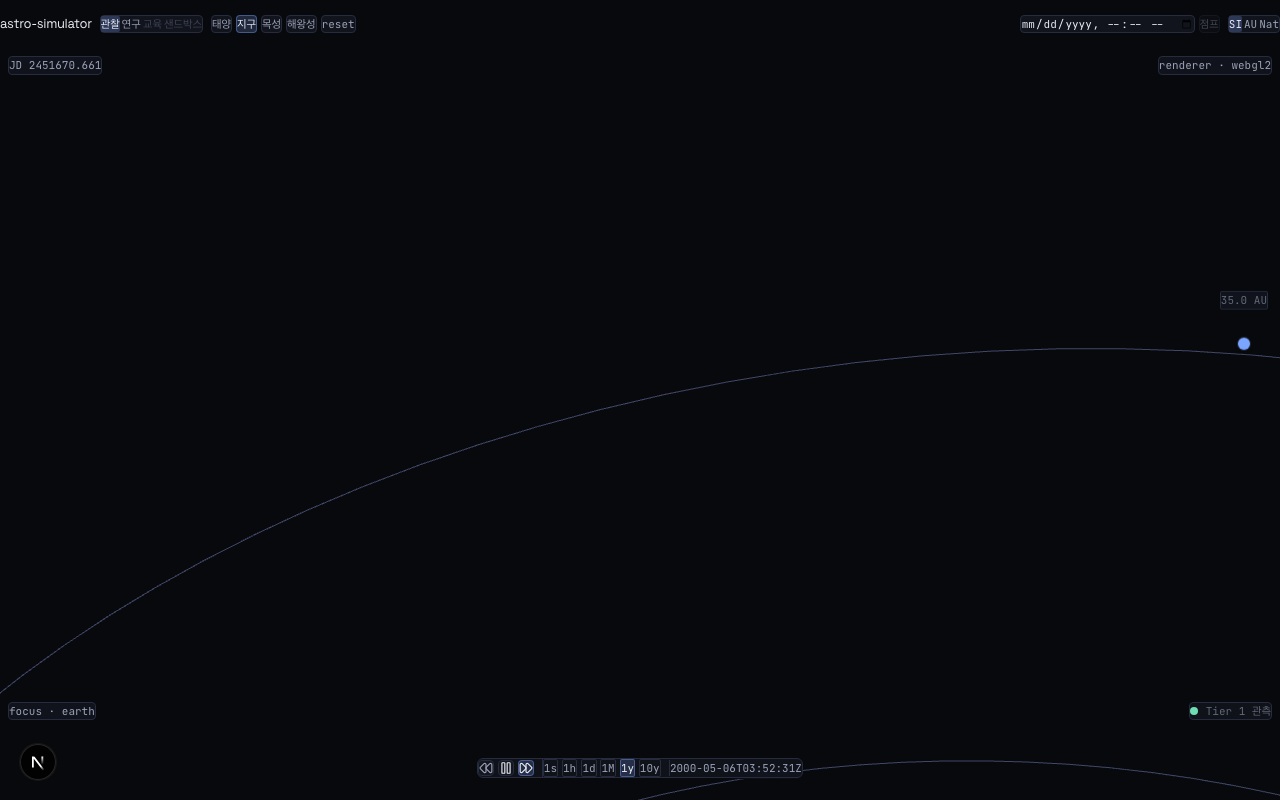
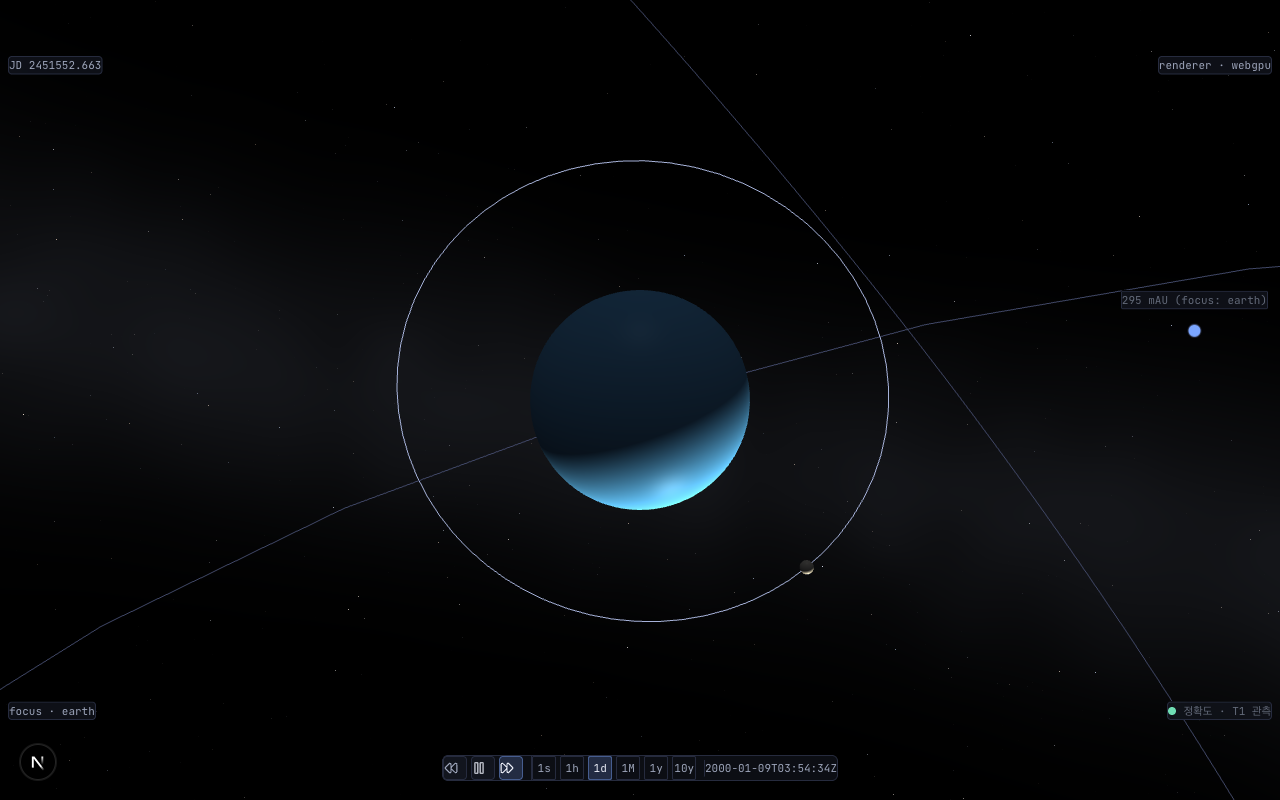
chore(release): v0.35.1 prep — CHANGELOG + version bump + README 스크린샷 갱신 (#745) (#747)
- CHANGELOG [0.35.1]: #745 별 배경 가시성 회귀 fix (PATCH) + README 스크린샷 갱신
- version 0.35.0 → 0.35.1 (루트 / core / web)
- README: 현재 상태 v0.35.1 + 별 배경·온보딩 항목 + 스크린샷 4장 별 배경 반영 캡처본 교체

diff --git a/CHANGELOG.md b/CHANGELOG.md
@@ -5,6 +5,16 @@ Semantic Versioning을 따른다.
 
 ## [Unreleased]
 
+## [0.35.1] — 2026-06-26
+
+### Behavior Changes (#745 — 별 배경 가시성 회귀 fix)
+
+- **[#745] tier-c 별 배경 과잉 비활성 회귀 fix (PATCH)** ([#745](https://github.com/coseo12/astro-simulator/issues/745)) — #738 별 배경의 fps graceful degradation 기준이 `gpu tier-c`(= "WebGPU 미지원" 데스크톱 전부, 소프트웨어 swiftshader + WebGL2 **하드웨어** 가속 무구분)였던 탓에, WebGPU 미지원이지만 WebGL2 하드웨어 가속인 **PC 크롬에서 별 배경이 기본 진입 시 사라지던 회귀**를 정정. 비활성 기준을 `tier-c` → **소프트웨어 렌더(swiftshader/llvmpipe/swrast 등) 감지**(신규 `detectSoftwareRenderer`, WebGL `UNMASKED_RENDERER_WEBGL` 1차 + WebGPU adapterInfo 보조)로 변경. **하드웨어 GPU(WebGPU tier-a/b + WebGL2 하드웨어 fallback) 전부 별 표시**, CI swiftshader(소프트웨어)는 비활성 유지로 fps 무회귀. 정규식 false positive 0(Apple/NVIDIA/Intel/Mali 등)·false negative 0(swiftshader 등) 검증. `?stars=off` / `?gpu=` override 보존. core 변경 0. ADR `20260624-738-procedural-starfield.md` §Amendment 2.
+
+### Notes
+
+- **README 스크린샷 갱신** — 전체 태양계 / 지구 / 해왕성 / 모바일 4장을 별 배경(#738)이 반영된 하드웨어 GPU 캡처본으로 교체 + "현재 상태" v0.35.1 현행화 (행동 변화 없는 문서).
+
 ## [0.35.0] — 2026-06-25
 
 ### Behavior Changes (#737 — 첫 진입 온보딩 / #738 — 별 배경)

diff --git a/README.md b/README.md
@@ -12,7 +12,7 @@
 
 ## 현재 상태
 
-**v0.33.0** — 로드맵 v3 (Incremental Body-by-Body Build) 완주 + 위성 탐색 확장 (2026-06-20)
+**v0.35.1** — 로드맵 v3 (Incremental Body-by-Body Build) 완주 + 경험 레이어 (별 배경·온보딩) (2026-06-26)
 
 - **태양계 32 body** — 태양 + 행성 8 + 위성 15 + 왜소행성 5 + 혜성 3, 실시간 적분 + 관측 데이터 기반 궤도/크기 시각화
   - 위성 15: 달 / 포보스·데이모스 / 갈릴레이 4 (이오·유로파·가니메데·칼리스토) / 타이탄·레아·이아페투스·엔셀라두스 / 티타니아·오베론 / 트리톤·프로테우스
@@ -22,6 +22,7 @@
   - Kepler 2-body 해석해 / Newton N-body Velocity-Verlet WASM / Barnes-Hut O(N log N) octree (theta=0.5 max err 4.99e-9) / WebGPU compute shader (미지원 시 자동 폴백) / Auto 최적 엔진 선택
 - 소행성대 ThinInstances `?belt=N` 1~10000 (Kepler 해석해)
 - 시간 제어 (재생/역행, ×1d/×1y 프리셋, julian date 정밀 jump) + 질량 슬라이더 + "만약에" 시나리오 + URL 북마크
+- **우주 환경 + 온보딩** — 절차적 별 배경 + 은하수 (`infiniteDistance` 천구 + 단일 draw call shader, 신규 에셋 0, `?stars=off` 토글) / 첫 진입 온보딩 + 조작 가이드 모달 (소프트웨어 렌더 환경은 별 배경 자동 비활성 — fill-rate graceful degradation)
 
 ## 스크린샷
 
